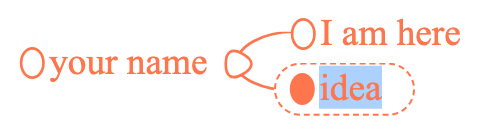
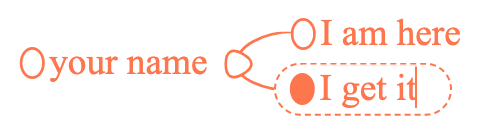
vault backup: 2024-12-19 16:28:50

diff --git a/tutorial/first launch.md b/tutorial/first launch.md
@@ -13,5 +13,5 @@ A list with one item appears. The title of this new item is "idea." It is surrou
 ![[first item edited.png]] 
 Now let's add another item to this list. Tap the TAB key. This is what you will now see:
 
-![[second item edit.png]]  
+![[second list item.png]]  
 Now type "I get it" and this is what you will see:
